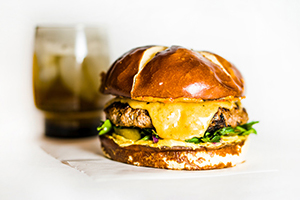
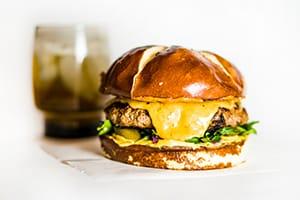
readme updated images optimized

diff --git a/pages/privacy-policy/index.jsx b/pages/privacy-policy/index.jsx
@@ -1,12 +1,12 @@
 import React from 'react'
 import {
-    Layout,
-    PageHeader
-  } from 'antd';
+  Layout,
+  PageHeader
+} from 'antd';
 import { MDXProvider } from '@mdx-js/react';
 import PrivacyPolicy from './PrivacyPolicy.mdx';
 
-const { Header, Content } = Layout;
+const { Content } = Layout;
 
 const components = {
   wrapper: props => (
@@ -17,15 +17,13 @@ const components = {
 };
 
 export default props => (
-    <Layout>
-      <Header>
-        <PageHeader title="Privacy Policy"
-            onBack={()=>history.back()}/>
-      </Header>
-      <Content>
-        <MDXProvider components={components}>
-            <PrivacyPolicy {...props} />
-        </MDXProvider>
-      </Content>
-    </Layout>
+  <Layout>
+    <PageHeader title="Privacy Policy"
+      onBack={() => history.back()} />
+    <Content>
+      <MDXProvider components={components}>
+        <PrivacyPolicy {...props} />
+      </MDXProvider>
+    </Content>
+  </Layout>
 );

diff --git a/pages/index.jsx b/pages/index.jsx
@@ -21,19 +21,20 @@ const components = {
 };
 
 export default () => (
-  
+
   <Layout>
-    <Header>
-      <PageHeader title="Template"
+    {/* <Header> */}
+    <PageHeader title="Template"
+      avatar={{ src: 'https://avatars1.githubusercontent.com/u/8186664?s=460&v=4' }}
       extra={[
-          <Button href="https://github.com/timothymiller/mern-ant-design-graphql-next-template"
-           key="2">View Source Code</Button>,
+        <Button href="https://github.com/timothymiller/mern-ant-design-graphql-next-template"
+          key="2">View Source Code</Button>,
         <Link href="/privacy-policy">
           <Button key="1" type="primary">View Privacy Policy</Button>
         </Link>,
       ]}>
-      </PageHeader>
-    </Header>
+    </PageHeader>
+    {/* </Header> */}
     <Content>
       <MDXProvider components={components}>
         <Welcome />

diff --git a/assets/antd-custom.less b/assets/antd-custom.less
@@ -1,8 +1,8 @@
 @primary-color: #1890ff;
 
-@layout-header-height: 51px;
+// @layout-header-height: 128px;
 @layout-header-padding : 0px 0px;
-@layout-header-background : #f8f8f8;
+@layout-header-background : #1890ff;
 @layout-body-background: #ffffff;
 @layout-footer-padding : 0px;
 

diff --git a/pages/welcome.md b/pages/welcome.md
@@ -48,21 +48,9 @@ yarn dev
     - Progressive image loading
     - Optimizations for GIF & SVG files
   - Easily add [AMP](https://developers.google.com/amp/) support
-  - [And much more...](https://nextjs.org/#features)
-- Bundle Analyzer
-```bash
-# Build and analyze the back end server bundle
-BUNDLE_ANALYZE=server yarn build
-
-# Build and analyze the front end browser bundle
-BUNDLE_ANALYZE=browser yarn build
-
-# Build and analyze both server and browser
-BUNDLE_ANALYZE=both yarn build
-
-# Build and analyze neither server nor browser
-yarn build
-```
+  - [Webpack Bundle Analyzer](https://github.com/zeit/next-plugins/tree/master/packages/next-bundle-analyzer)
+  - [And much more...](https://nextjs.org/#features)  
+[alt text](https://template.timknowsbest.com/static/images/perfect-lighthouse-score.gif)
 - [Google Lighthouse audit](https://web.dev/measure) Perfect 100 score in all categories
   - Performance
   - Accessibility
@@ -123,3 +111,9 @@ Now handles loading enviornment variables into your runtime config behind the sc
 - Checkout /api/add-email & /components/EmailList for examples on interacting with MongoDB in a serverless MERN stack.
 
 ### TODO How to setup GraphQL
+
+## License 
+
+This Template is licensed under the [GNU General Public License, version 3 (GPLv3)](http://www.gnu.org/licenses/gpl-3.0.html) and is distributed free of charge.
+
+

diff --git a/README.md b/README.md
@@ -63,6 +63,7 @@ BUNDLE_ANALYZE=both yarn build
 # Build and analyze neither server nor browser
 yarn build
 ```
+[alt text](https://template.timknowsbest.com/static/images/perfect-lighthouse-score.gif)
 - [Google Lighthouse audit](https://web.dev/measure) Perfect 100 score in all categories
   - Performance
   - Accessibility
